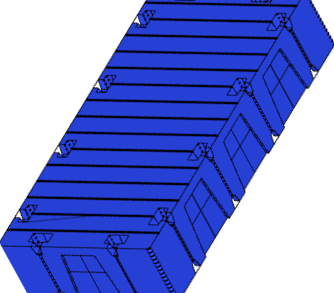
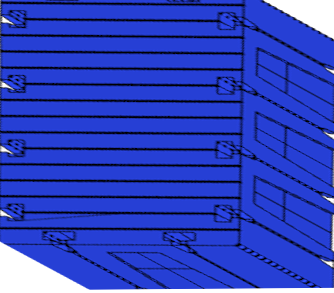
3

diff --git a/js/script.js b/js/script.js
@@ -4094,7 +4094,7 @@ function draw(f=false){
 							//ctx.rotate(180*Math.PI/180);
 							switch (maps[i][j].color){
 								case 'green':ctx.drawImage(imgMapsPontonG , 0, 0, (45+scale)*2, (45+scale)*4);break;
-								case 'blue': ctx.drawImage(imgMapsPontonBDown , sizeX*j, sizeY*i, (45+scale)*2, (45+scale)*4);break;
+								case 'blue': ctx.drawImage(imgMapsPontonBDown , sizeX*j, sizeY*i, (45+scale)*3, (45+scale)*5);break;
 								case 'brown':ctx.drawImage(imgMapsPontonGR, 0, 0, (45+scale)*2, (45+scale)*4);break;
 								case 'white':ctx.drawImage(imgMapsPontonW , 0, 0, (45+scale)*2, (45+scale)*4);break;
 								case 'beige':ctx.drawImage(imgMapsPontonBE, 0, 0, (45+scale)*2, (45+scale)*4);break;
